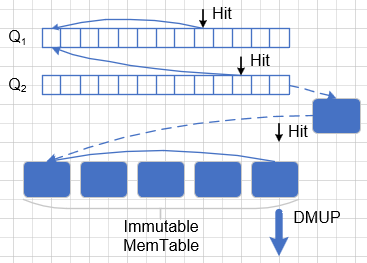
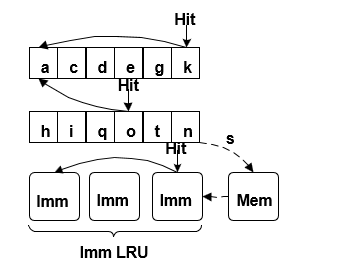
update doc

diff --git a/doc/lsmtree.md b/doc/lsmtree.md
@@ -2,7 +2,11 @@
 
 ## LevelDB
 
+### 简介
+
 LevelDB是Google开源的持久化KV数据库，具有很高的随机写、顺序读/写性能，但随机读性能一般。LevelDB在外存存储时使用了LSM-Tree*[LSM-tree]*的结构，对索引变更进行延迟及批量处理，并通过多路归并的方法高效的将数据更新迁移到磁盘，降低索引插入的开销*[GoogleWeb]*。
+
+### 结构
 
 ![LevelDBStructure](./pic/structure.png)
 
@@ -48,13 +52,30 @@ major contribution：
 2. 用CuckooFilter替换BloomFilter；
 3. 增加了数据上浮的操作；
 
-## 内存：二级缓存替换MemTable，多Immutable MemTable
+## 内存：多级缓存替换
+
+### 结构
 
 ![MemoryStructrue](pic/memorystructure.png)
 
-【图2：内存存储结构】**【图待修改】**
+【图2：内存存储结构】
 
-在原有的机制中，MemTable在满了以后就直接转换成Immutable MemTable，随后等待DUMP到$L_0$中。而**此时在MemTable中频繁访问的数据，将会直接随着原有机制一直DUMP到$L_0$中，当再读这些数据时，都需要读取外存中的SSTable**。为了改进这个问题，我们提出用LRU2Q来替换MemTable，当数据从2Q淘汰后，再将其加入Immutable Memtable。我们还提出内存中不再只有一个Immutable Memtable，而是同时存在n个Immutable MemTable，这n个Immutable MemTable存在于内存的一个长度为$N$的LRU队列中，每次将从该LRU队列中淘汰的Immutable MemTable DUMP到$L_0$中。
+我们提出的内存存储结构中，用LRU2Q替换原有的MemTable，同时维护一个由多个更小的Immutable Memtable组成的Imm LRU。用一个更小的MemTable作为缓冲，每当有数据从LRU2Q中淘汰时，数据将会被加入MemTable。当MemTable满了以后，将其加入Imm List。当Imm LRU满了之后，将该LRU队尾的Immutable MemTable淘汰，DUMP到外部存储设备中。
+
+### 与LevelDB比较
+
+1. 在原有的内存存储结构中，**在MemTable中频繁访问的数据，会因为新数据的加入而被转换成Immutable MemTable，随后DUMP到$L_0$中。当再读这些数据时，都需要进行IO读写。**我们所提出的结构能够让频繁访问的数据长时间被保存在内存中，而不会因为机制的问题而被强制DUMP到外部存储设备中。
+2. 同时，在原有的结构中，每当一个Immutable MemTable被DUMP到外部存储设备时，都会创建一个新的空的MemTable，并且因为一个MemTable的大小较大，所以此时内存的利用率会出现较大程度的下降。我们所提出的结构采用更小的MemTable和Immutable MemTable作为一个分配单位，不会较大程度的下降，基本上维持在较高的水准。
+
+### 例子
+
+![case1](pic/case1.png)
+
+【例子】
+
+
+
+为了改进这个问题，我们提出用LRU2Q来替换MemTable，当数据从2Q淘汰后，再将其加入Immutable Memtable。我们还提出内存中不再只有一个Immutable Memtable，而是同时存在n个Immutable MemTable，这n个Immutable MemTable存在于内存的一个长度为$N$的LRU队列中，每次将从该LRU队列中淘汰的Immutable MemTable DUMP到$L_0$中。
 
 LRU2Q由两个队列构成，一个是基于LRU的队列，另一个是FIFO队列。新数据都被直接插入LRU队列；当数据在两个队列中被访问到时，将数据移动到LRU队列的头部；当数据被LRU队列淘汰时，将按照FIFO的规则插入FIFO队列的头部；当数据被FIFO队列淘汰后，则意味着被2Q所淘汰。
 
